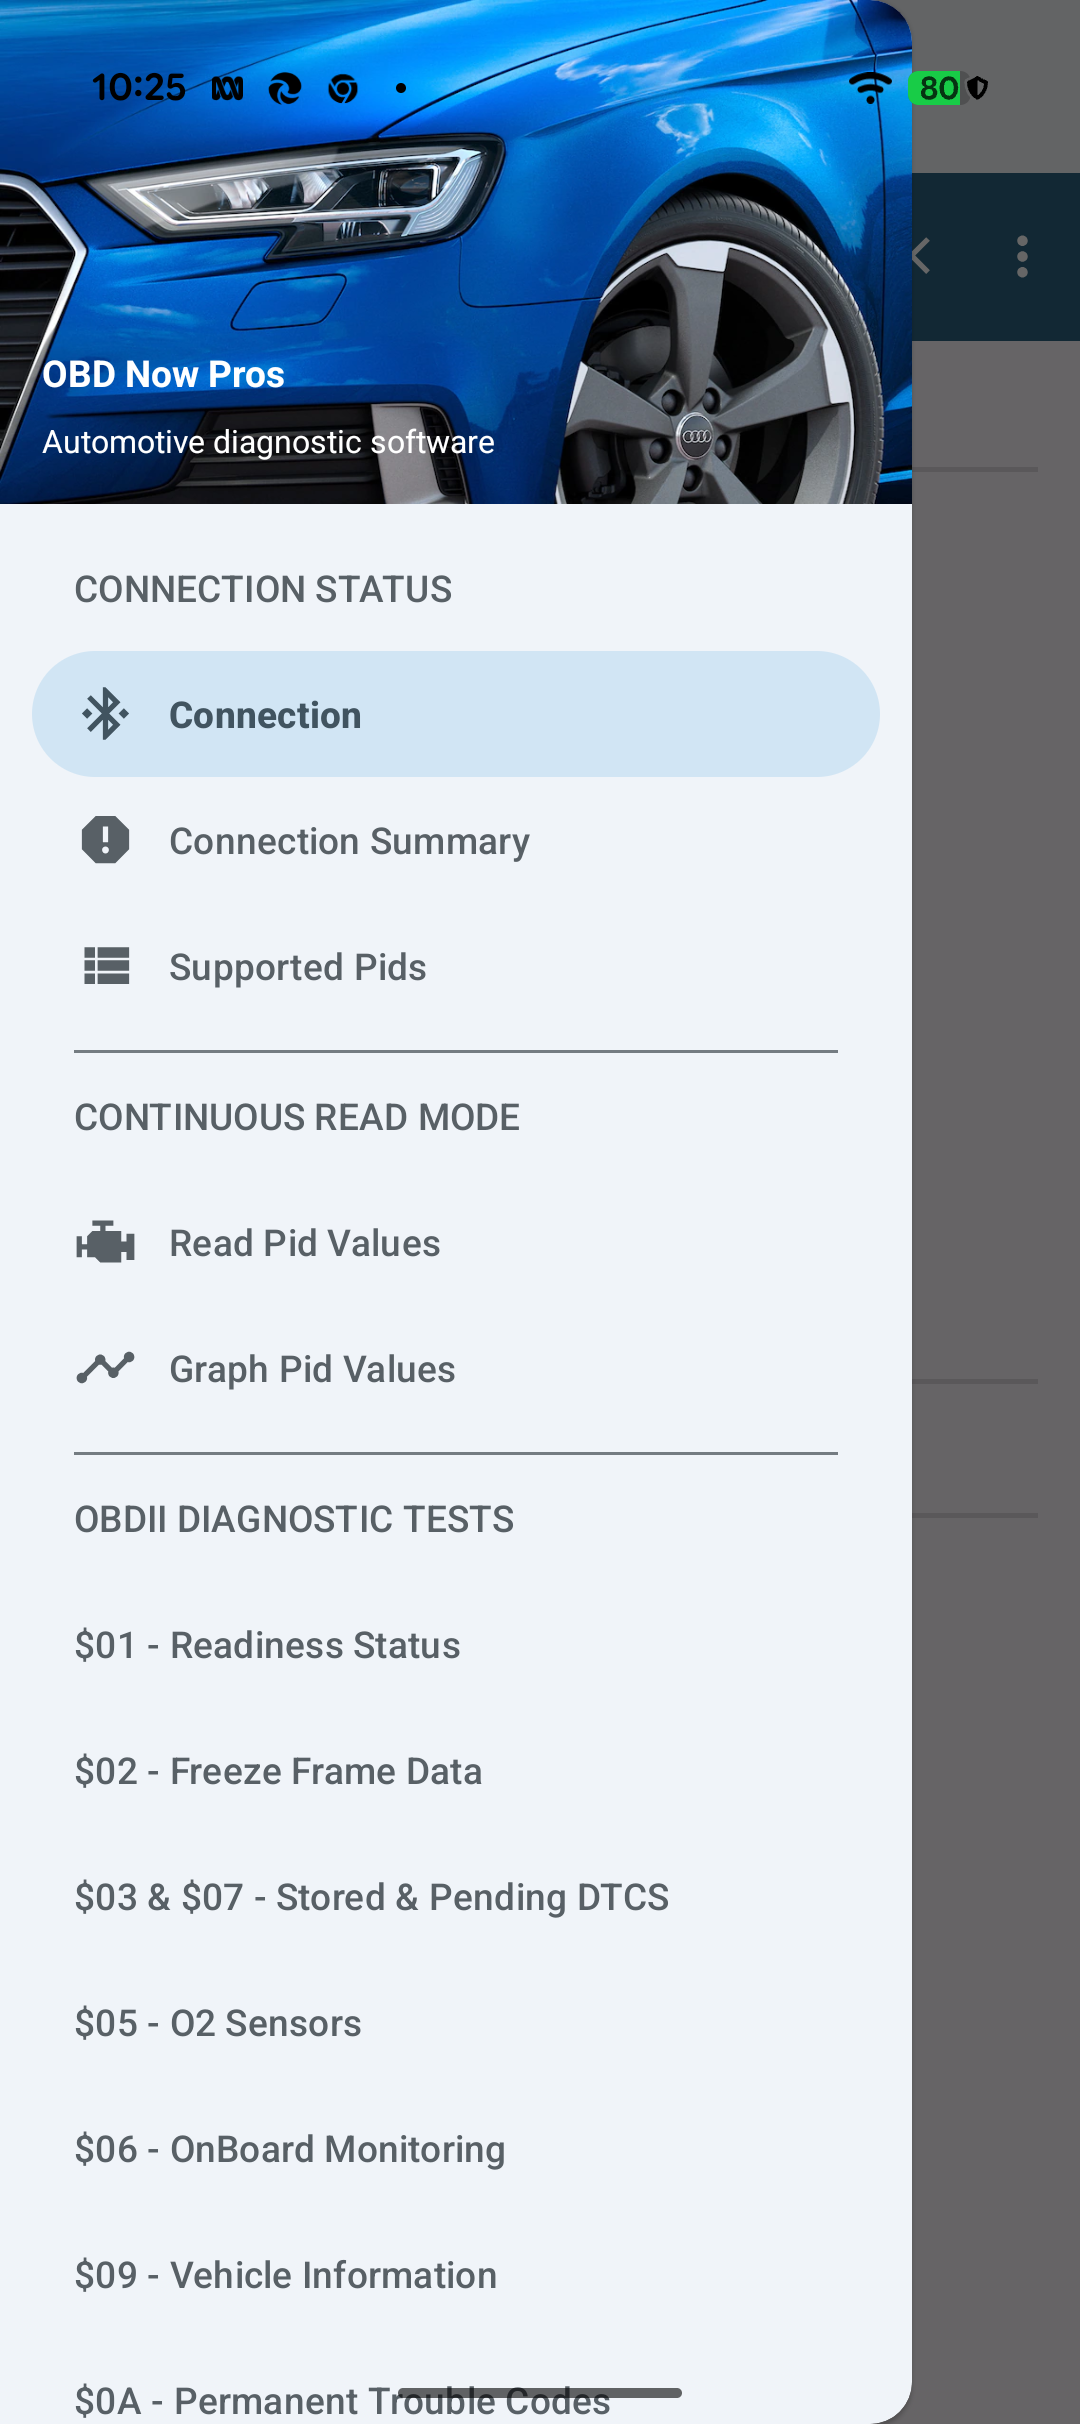
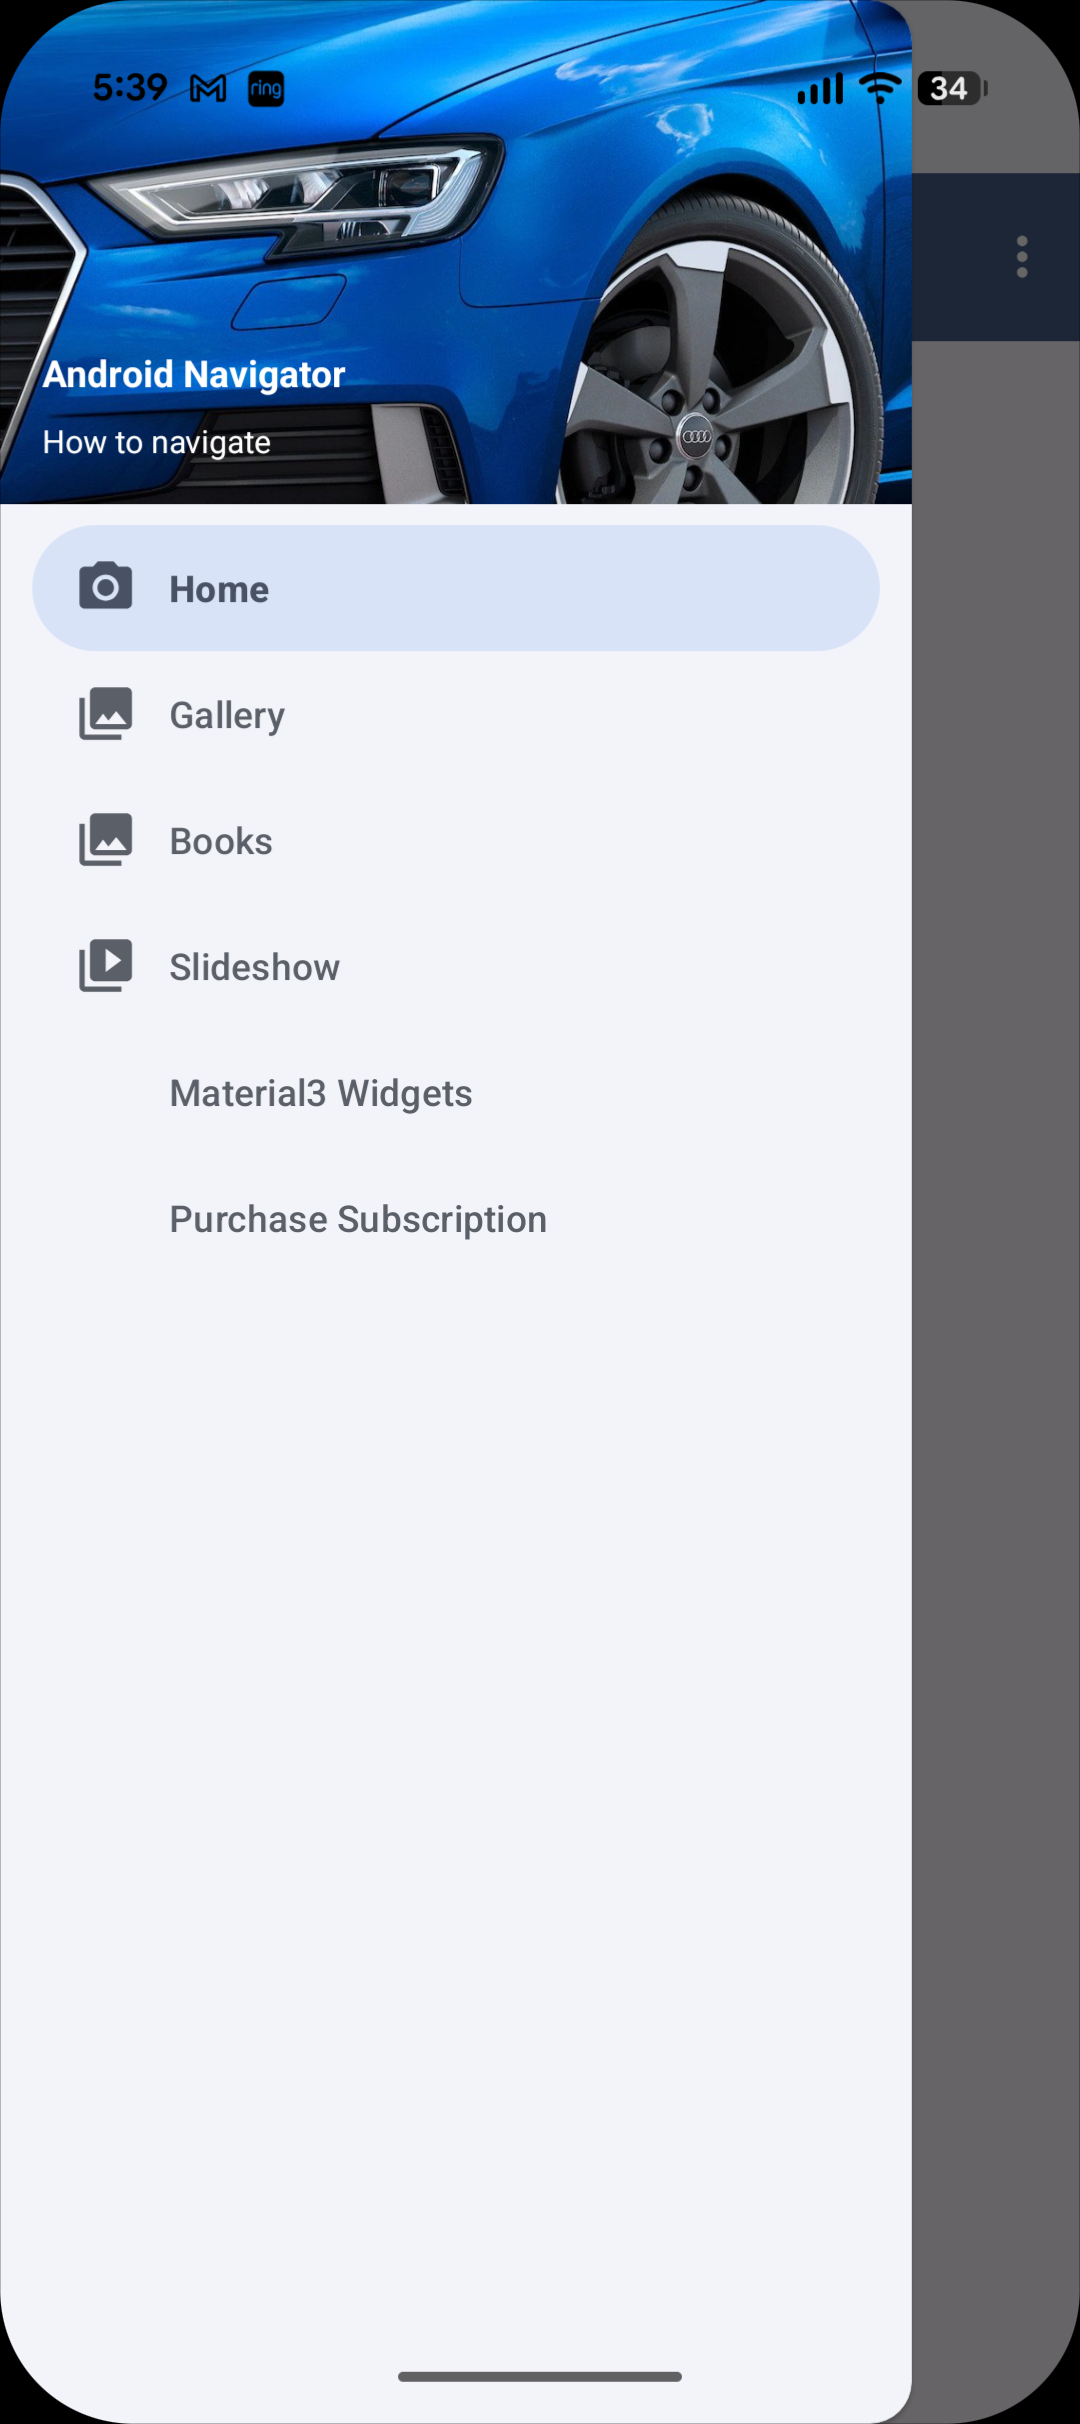
Build 1.1 05/03/2026

diff --git a/ReadMe.md b/ReadMe.md
@@ -1,4 +1,11 @@
-**01/03/2026**
+**05/03/2026**
+Build 1.1 
+
+Added the Dynamic Colour Theme feature.
+This includes the screenshots below. The images created a problem in that since they are not part of the project 
+as per the csprog file, when you need to update them you also need to close and reopen the solution to see any changes you make.
+
+**01/03/2026**
 
 Build 1.0 Creating a new repo. NavigationGraph11Net10
 
@@ -10,7 +17,37 @@ BaseActivity's ApplyDynamicHeaderBackground() or our standard NavigationView usi
 Refer to the two new preferences *Use Dynamic Colour Theme* and *Retain Vehicle images while using Dynamic Color Scheme*. 
 Might as well just take the text description from the Help file.  
 
+Text from OBDNowsPro's Help file:
+
+This build introduces a new feature from Google to our theming called Dynamic Colour Themes. As you know, OBDNowPros already has three Material3 themes (light and dark), which we call RedBMW, BlueAudi, and GreenBMW, each based on the colours of a vehicle image. Dynamic Colour Themes are based on your system's wallpapers or chosen colours, in other words, the user’s choice of a particular wallpaper or colour set. 
+There are two new settings in the Settings window. Use Dynamic Colour Theme and Retain our images while using Dynamic Colour Theme. 
+
+The choice Use Dynamic Colour Theme automatically removes the vehicle image from the Navigation menu and replaces its background with the Dynamic Colour Theme’s colorPrimary colour. This is done to prevent a clash of colours between the chosen vehicle image and the new Dynamic Colour Theme colorPrimary colour.
+However, the second option, Retain our images while using Dynamic Colour Theme, allows you to keep the vehicle image when your chosen wallpaper colour closely matches one of our three default colour schemes based on our vehicle images.  
+You can then choose the final effect, either the Light or Dark theme.
+
+Example using a predominant blue wallpaper.
+The first image is the device's wallpaper. The second image shows the result after activating the Use Dynamic Colour Theme. 
+This shows the Navigation menu with the vehicle image removed and the area replaced by the Dynamic Colour Theme’s colorPrimary 
+colour. 
+The third image shows the Blue Audi image reinstated, but all the colours of the Blue Audi theme have been replaced with those of the Dynamic Colour theme.  
+
+
+<!-- Blue Audi -->
+**Blue Audi – 1. predominantly blue Wallpaper, 2. Dynamic colours checked matching navView background, 3. reinstate the vehicle image in navView**
+<table cellpadding="6"> 
+  <tr>
+    <td><img src="Images/blue_audi_lock.png" alt="Blue Audi lock screen" width="260"></td>
+    <td><img src="Images/blue_audi_nav_plain.png" alt="Blue Audi NavigationView plain background" width="260"></td>
+    <td><img src="Images/blue_audi_nav_vehicle.png" alt="Blue Audi NavigationView with vehicle image" width="260"></td>
+  </tr>
+</table>
+
+<br/>
+
 <!-- Red BMW -->
+**Red BMW – 1. predominantly red Wallpaper, 2. Dynamic colours checked matching navView background, 3. reinstate the vehicle image in navView**
+
 <table cellpadding="6">
   <tr>
     <td><img src="Images/red_bmw_lock.png" alt="Red BMW lock screen" width="260"></td>
@@ -19,17 +56,12 @@ Might as well just take the text description from the Help file.
   </tr>
 </table>
 
-<!-- Blue Audi -->
-<table>
-  <tr>
-    <td><img src="Images/blue_audi_lock.png" alt="Blue Audi lock screen" width="260"></td>
-    <td><img src="Images/blue_audi_nav_plain.png" alt="Blue Audi NavigationView plain background" width="260"></td>
-    <td><img src="Images/blue_audi_nav_vehicle.png" alt="Blue Audi NavigationView with vehicle image" width="260"></td>
-  </tr>
-</table>
+<br/>
 
 <!-- Green BMW -->
-<table>
+**Green BMW – 1. predominantly green Wallpaper, 2. Dynamic colours checked matching navView background, 3. reinstate the vehicle image in navView**
+
+<table cellpadding="6">
   <tr>
     <td><img src="Images/green_bmw_lock.png" alt="Green BMW lock screen" width="260"></td>
     <td><img src="Images/green_bmw_nav_plain.png" alt="Green BMW NavigationView plain background" width="260"></td>
@@ -37,4 +69,5 @@ Might as well just take the text description from the Help file.
   </tr>
 </table>
 
-Need to replace the above images with the ones from this app. Don't wont to show OBDNowPros names. Should be Android Navigator and How to navigate
+
+
